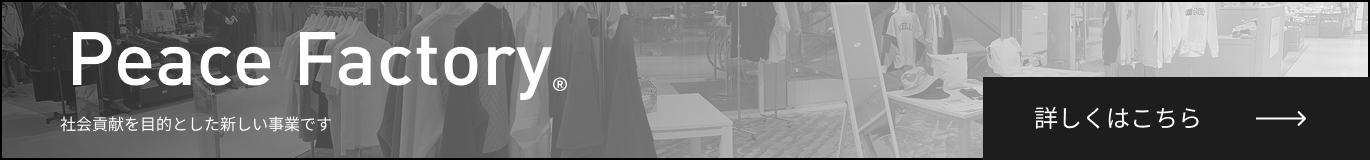
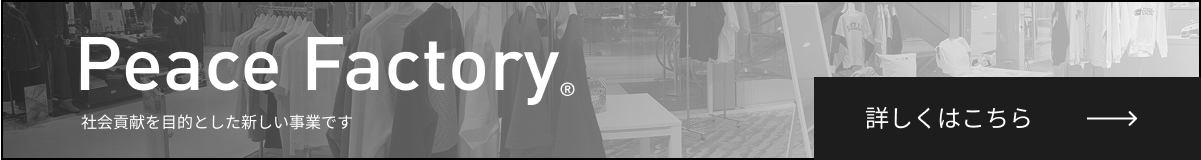
0324shimizu

Changed region(s): [[0.0, 0.0, 1.0, 1.0], [0.9858, 0.0, 1.0, 0.0625], [0.1848, 0.9688, 0.2157, 1.0]]

diff --git a/peacefactory.html b/peacefactory.html
@@ -326,23 +326,23 @@
     <div class="PF05_info_inner">
      <div class="voice_content">
       <dl>
-       <dt>2025/03/19</dt>
+       <dt><time datetime="2025-03-19">2025/03/19</time></dt>
        <dd>＃＃のご意見を改善しました</dd>
       </dl>
       <dl>
-       <dt>2025/03/19</dt>
+       <dt><time datetime="2025-03-19">2025/03/19</time></dt>
        <dd>＃＃のご意見を改善しました</dd>
       </dl>
       <dl>
-       <dt>2025/03/19</dt>
+       <dt><time datetime="2025-03-19">2025/03/19</time></dt>
        <dd>＃＃のご意見を改善しました</dd>
       </dl>
       <dl>
-       <dt>2025/03/19</dt>
+       <dt><time datetime="2025-03-19">2025/03/19</time></dt>
        <dd>＃＃のご意見を改善しました</dd>
       </dl>
       <dl>
-       <dt>2025/03/19</dt>
+       <dt><time datetime="2025-03-19">2025/03/19</time></dt>
        <dd>＃＃のご意見を改善しました</dd>
       </dl>
      </div>
@@ -351,9 +351,13 @@
 
    </div>
   </section>
-
+</div>
  </main>
- <div class="pf-banner"><a href="peacefactory.html"><img src="img/peacefactory/pf-banner.jpg" alt="PeaceFactory 社会貢献を目的とした新しい事業です" width="594" height="160" decoding="async" loading="lazy"></a></div>
+ <div class="pf-banner">
+	<a href="peacefactory.html">
+		<picture>
+			<source srcset="img/peacefactory/pf-banner.jpg" media="(min-width: 640px)">
+			<img src="img/peacefactory/pf-banner-sp.jpg" alt="PeaceFactory 社会貢献を目的とした新しい事業です" width="1200" height="160" decoding="async" loading="lazy"></picture></a></div>
  <div class="f-contact flexbox flex-align-center flex-justify-end anniv-contact">
   <div class="contact-txtbox">
    <h2 class="heading01">

diff --git a/style.css b/style.css
@@ -10429,9 +10429,15 @@ h2 {
 }
 
 .PF05_info_inner {
- max-width: 920px;
+ max-width: 950px;
  margin-inline: auto;
  margin-top: 50px;
+}
+
+@media (max-width: 768px) {
+	.PF05_info_inner {
+		padding: 0 15px;
+	   }
 }
 
 .voice_content {
@@ -10452,6 +10458,15 @@ h2 {
  padding-top: 17px;
  padding-bottom: 17px;
  margin: 0;
+}
+
+@media (max-width: 768px) {
+	.voice_content dl {
+		flex-direction: column;
+		gap: 10px;
+		text-align: left;
+		padding: 17px;
+	   }
 }
 
 .voice_content dl:last-of-type {
@@ -10488,6 +10503,7 @@ h2 {
  width: 100%;
  margin-inline: auto;
  margin-top: 80px;
+ padding: 0 15px;
 }
 
 .pf-banner img {

diff --git a/js/app.js b/js/app.js
@@ -130,7 +130,7 @@ document.addEventListener('DOMContentLoaded', function() {
 	const button = document.querySelector('.button');
 	const hideTextContent = document.querySelector('.hide_text_content');
 	
-	// 初期状態の設定（display:noneではなく高さとopacityで制御）
+	// 初期状態の設定（高さとopacityで制御）
 	hideTextContent.style.maxHeight = '0';
 	hideTextContent.style.opacity = '0';
 	hideTextContent.style.overflow = 'hidden'; // コンテンツがはみ出ないように
